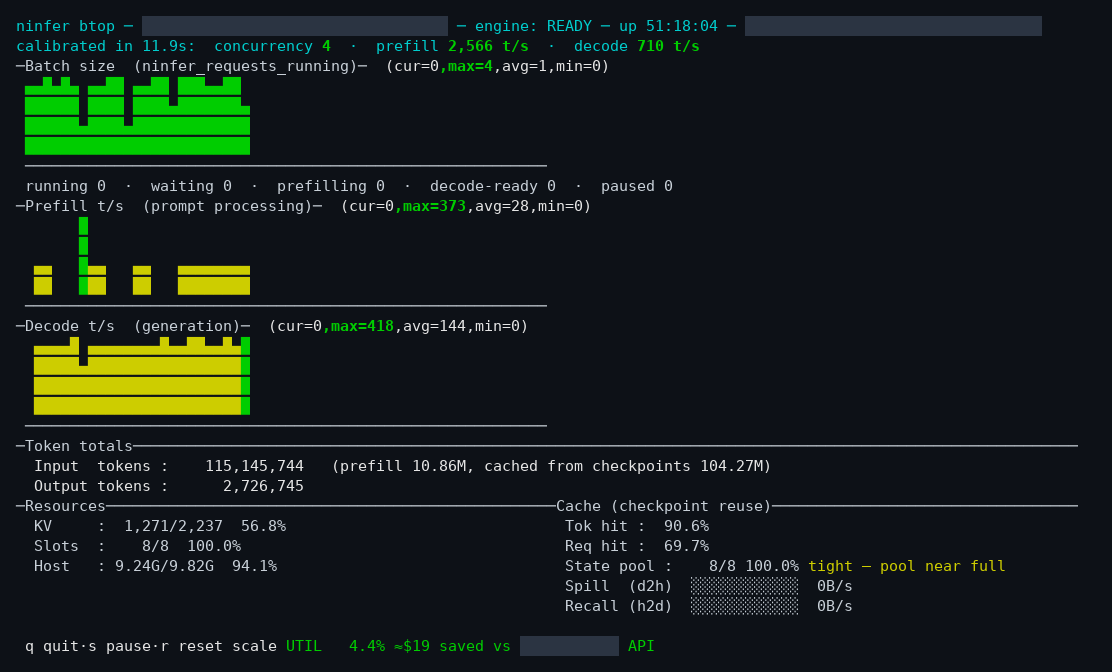
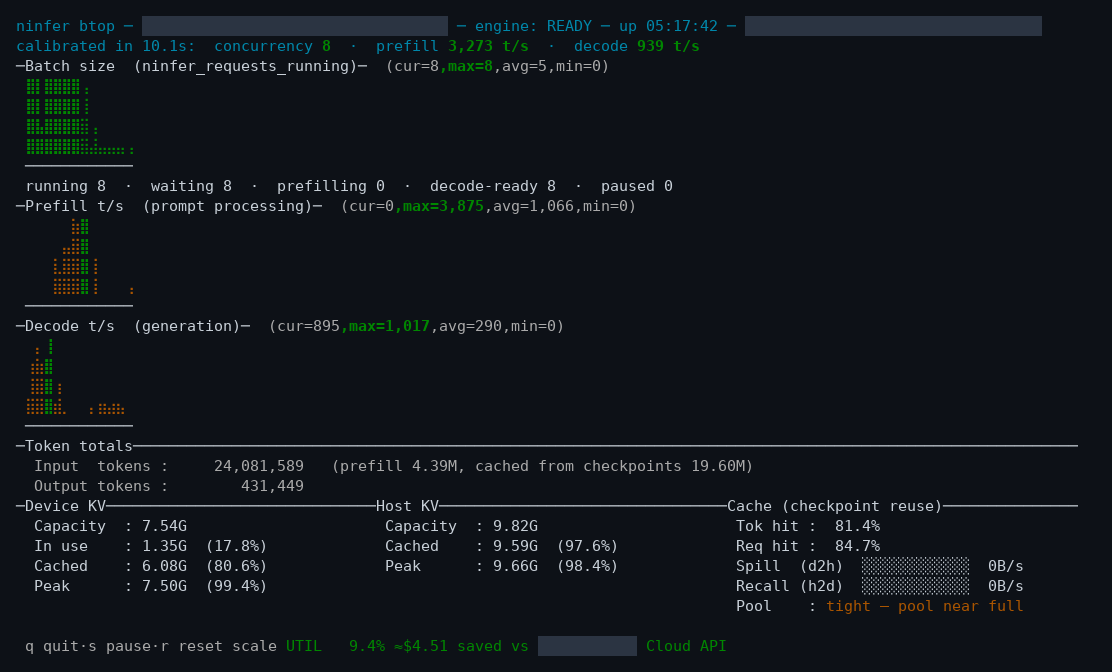
README: verified against a754fcf3; refresh hero screenshot
- 'Verified against' now points at the engine build actually running
  (Neroued/ninfer @ a754fcf3, 2026-11-02, post state/KV unification)
- images/ninfer_btop.png re-captured per the agent.md section-7 recipe:
  live 120x32 run with braille graphs + the Device KV / Host KV / Cache
  triple panel, model name, endpoint URL and footer pricing label
  redacted

diff --git a/README.md b/README.md
@@ -127,7 +127,7 @@ Against all of these, the features that are unique to ninfer_btop:
 
 ## Verified against
 
-NInfer upstream `Neroued/ninfer` @ `1882c6ad` (2026-10-29, the post state/KV
+NInfer upstream `Neroued/ninfer` @ `a754fcf3` (2026-11-02, the post state/KV
 unification build; live-verified 2026-11-02): `/metrics` renders
 `published_stats_`, which the engine worker republishes after every decode/prefill step
 (`engine_core.h` → `publish_runtime_stats()`), so the counters are real-time and a
